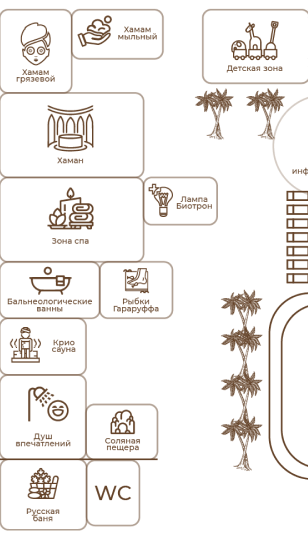
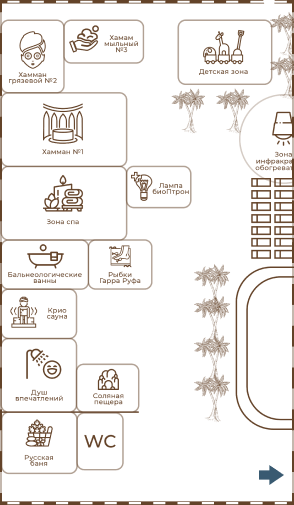
fix map and bugs

Changed region(s): [[0.0, 0.0, 1.0, 1.0]]

diff --git a/css/style.css b/css/style.css
@@ -186,7 +186,7 @@ svg rect {
   top: 0;
   left: 0;
   z-index: 0;
-  opacity: 0.6;
+  opacity: 0.2;
 }
 
 .main-content__lines-2 {
@@ -194,7 +194,7 @@ svg rect {
   top: 1200px;
   right: 0;
   z-index: 0;
-  opacity: 0.6;
+  opacity: 0.2;
 }
 
 .popup {
@@ -617,7 +617,7 @@ svg rect {
 }
 
 .popup-map__content {
-  max-height: calc(95% - 100px);
+  max-height: calc(95vh - 100px);
   width: auto;
   margin: 0 auto;
   -webkit-transform: translate(-15px, 0);
@@ -650,6 +650,7 @@ svg rect {
     width: 100px;
     height: 75px;
     z-index: 50;
+    background-color: rgba(0, 0, 0, 0.4);
   }
 }
 
@@ -657,6 +658,34 @@ svg rect {
   .popup-map__link-aqua {
     left: 35%;
   }
+}
+
+.popup-map__link-aqua--map-12 {
+  width: 50px;
+  height: 50px;
+  top: 90%;
+  left: 85%;
+}
+
+.popup-map__link-aqua--map-21 {
+  width: 50px;
+  height: 50px;
+  top: 90%;
+  left: 0;
+}
+
+.popup-map__link-aqua--map-23 {
+  width: 50px;
+  height: 50px;
+  top: 90%;
+  left: 85%;
+}
+
+.popup-map__link-aqua--map-32 {
+  width: 50px;
+  height: 50px;
+  top: 90%;
+  left: 0;
 }
 
 @media (max-width: 600px) {
@@ -854,6 +883,21 @@ svg rect {
   }
 }
 
+@media (max-width: 600px) {
+  .popup-map__link-aqua--red-zone-1 {
+    top: 20%;
+    left: 85%;
+    width: 50px;
+    height: 80px;
+  }
+}
+
+@media (max-width: 350px) {
+  .popup-map__link-aqua--red-zone-1 {
+    width: 40px;
+  }
+}
+
 .popup-aqua__wrapper {
   background: url("../images/system_img/services/bg.jpg") center/cover no-repeat;
   width: 85%;
@@ -1027,14 +1071,14 @@ svg rect {
   -webkit-box-align: center;
       -ms-flex-align: center;
           align-items: center;
-  padding: 0 50px;
+  padding: 0 25px;
   width: 100%;
   height: 100%;
 }
 
 @media (max-width: 1336px) {
   .header__wrapper {
-    padding: 0 25px;
+    padding: 0 10px;
   }
 }
 
@@ -1216,6 +1260,7 @@ svg rect {
   font-size: 19px;
   line-height: 23px;
   color: #000;
+  text-align: center;
 }
 
 @media (max-width: 1336px) {
@@ -2977,10 +3022,12 @@ svg rect {
   left: 20px;
 }
 
-.shares__slider .slick-arrow.slick-prev:hover {
-  -webkit-transform: translate(-5px, -5px) rotate(-360deg);
-      -ms-transform: translate(-5px, -5px) rotate(-360deg);
-          transform: translate(-5px, -5px) rotate(-360deg);
+@media (min-width: 768px) {
+  .shares__slider .slick-arrow.slick-prev:hover {
+    -webkit-transform: translate(-5px, -5px) rotate(-360deg);
+        -ms-transform: translate(-5px, -5px) rotate(-360deg);
+            transform: translate(-5px, -5px) rotate(-360deg);
+  }
 }
 
 .shares__slider .slick-arrow.slick-next {
@@ -2990,10 +3037,12 @@ svg rect {
   right: 20px;
 }
 
-.shares__slider .slick-arrow.slick-next:hover {
-  -webkit-transform: translate(5px, -5px) rotate(179deg);
-      -ms-transform: translate(5px, -5px) rotate(179deg);
-          transform: translate(5px, -5px) rotate(179deg);
+@media (min-width: 768px) {
+  .shares__slider .slick-arrow.slick-next:hover {
+    -webkit-transform: translate(5px, -5px) rotate(179deg);
+        -ms-transform: translate(5px, -5px) rotate(179deg);
+            transform: translate(5px, -5px) rotate(179deg);
+  }
 }
 
 .shares__img {

diff --git a/index.html b/index.html
@@ -905,6 +905,8 @@
 			</div>
 			<div class="popup-map__content popup__content">
 				<img src="images/system_img/scheme/01.png" alt="">
+				<a href="#map-popup-2" class="popup-map__link-aqua popup-map__link-aqua--map-12 popup-link"></a>
+
 				<a href="#russian-bath-popup"
 					class="popup-map__link-aqua popup-map__link-aqua--russian-bath popup-link"></a>
 				<a href="#salt-cave-popup" class="popup-map__link-aqua popup-map__link-aqua--salt-cave popup-link"></a>
@@ -919,6 +921,7 @@
 					class="popup-map__link-aqua popup-map__link-aqua--hamam-second popup-link"></a>
 				<a href="#hamam-third-popup" class="popup-map__link-aqua popup-map__link-aqua--hamam-third popup-link"></a>
 				<a href="#children-popup" class="popup-map__link-aqua popup-map__link-aqua--children popup-link"></a>
+				<a href="#red-zone-popup" class="popup-map__link-aqua popup-map__link-aqua--red-zone-1 popup-link"></a>
 			</div>
 		</div>
 	</div>
@@ -930,6 +933,10 @@
 			</div>
 			<div class="popup-map__content popup__content popup-map__content-2">
 				<img src="images/system_img/scheme/02.png" alt="">
+
+				<a href="#map-popup-1" class="popup-map__link-aqua popup-map__link-aqua--map-21 popup-link"></a>
+				<a href="#map-popup-3" class="popup-map__link-aqua popup-map__link-aqua--map-23 popup-link"></a>
+
 				<a href="#red-zone-popup" class="popup-map__link-aqua popup-map__link-aqua--red-zone popup-link"></a>
 			</div>
 		</div>
@@ -942,6 +949,8 @@
 			</div>
 			<div class="popup-map__content popup__content">
 				<img src="images/system_img/scheme/03.png" alt="">
+
+				<a href="#map-popup-2" class="popup-map__link-aqua popup-map__link-aqua--map-32 popup-link"></a>
 			</div>
 		</div>
 	</div>

diff --git a/#source/scss/style.scss b/#source/scss/style.scss
@@ -77,7 +77,7 @@ svg {
 		top: 0;
 		left: 0;
 		z-index: 0;
-		opacity: 0.6;
+		opacity: 0.2;
 	}
 
 	&__lines-2 {
@@ -85,7 +85,7 @@ svg {
 		top: 1200px;
 		right: 0;
 		z-index: 0;
-		opacity: 0.6;
+		opacity: 0.2;
 	}
 }
 
@@ -432,7 +432,7 @@ svg {
 	}
 
 	&__content {
-		max-height: calc(95% - 100px);
+		max-height: calc(95vh - 100px);
 		width: auto;
 		margin: 0 auto;
 		transform: translate(-15px, 0);
@@ -455,11 +455,39 @@ svg {
 			width: 100px;
 			height: 75px;
 			z-index: 50;
-			// background-color: rgba(0, 0, 0, 0.4);
+			background-color: rgba(0, 0, 0, 0.4);
 		}
 
 		@media (max-width: 420px) {
 			left: 35%;
+		}
+
+		&--map-12 {
+			width: 50px;
+			height: 50px;
+			top: 90%;
+			left: 85%;
+		}
+
+		&--map-21 {
+			width: 50px;
+			height: 50px;
+			top: 90%;
+			left: 0;
+		}
+
+		&--map-23 {
+			width: 50px;
+			height: 50px;
+			top: 90%;
+			left: 85%;
+		}
+
+		&--map-32 {
+			width: 50px;
+			height: 50px;
+			top: 90%;
+			left: 0;
 		}
 
 		&--russian-bath {
@@ -628,6 +656,19 @@ svg {
 
 			@media (max-width: 350px) {
 				width: 80px;
+			}
+		}
+
+		&--red-zone-1 {
+			@media (max-width: 600px) {
+				top: 20%;
+				left: 85%;
+				width: 50px;
+				height: 80px;
+			}
+
+			@media (max-width: 350px) {
+				width: 40px;
 			}
 		}
 	}

diff --git a/#source/scss/_shares.scss b/#source/scss/_shares.scss
@@ -64,17 +64,20 @@
 		.slick-arrow.slick-prev {
 			left: 20px;
 
-			&:hover {
-				transform: translate(-5px, -5px) rotate(-360deg);
+			@media (min-width: $xs) {
+				&:hover {
+					transform: translate(-5px, -5px) rotate(-360deg);
+				}
 			}
 		}
 		/* Стрелка вправо */
 		.slick-arrow.slick-next {
 			transform: rotate(180deg);
 			right: 20px;
-
-			&:hover {
-				transform: translate(5px, -5px) rotate(179deg);
+			@media (min-width: $xs) {
+				&:hover {
+					transform: translate(5px, -5px) rotate(179deg);
+				}
 			}
 		}
 	}

diff --git a/#source/scss/_header.scss b/#source/scss/_header.scss
@@ -10,12 +10,12 @@
 		display: flex;
 		justify-content: space-between;
 		align-items: center;
-		padding: 0 50px;
+		padding: 0 25px;
 		width: 100%;
 		height: 100%;
 
 		@media (max-width: $lg) {
-			padding: 0 25px;
+			padding: 0 10px;
 		}
 
 		@media (max-width: 400px) {
@@ -154,6 +154,7 @@
 		font-size: 19px;
 		line-height: 23px;
 		color: #000;
+		text-align: center;
 
 		@media (max-width: $lg) {
 			padding: 9px 5px 8px 20px;

diff --git a/tickets.html b/tickets.html
@@ -52,7 +52,7 @@
 								<p class="item-ticket__text">(Понедельник - пятница с 09:00 до 17:00)</p>
 							</div>
 							<div class="item-ticket__body">
-								<p class="item-ticket__price"><span>400</span> ₽</p>
+								<p class="item-ticket__price"><span>790</span> ₽</p>
 								<a href="tickets-info.html" class="item-ticket__btn btn">заказать</a>
 							</div>
 						</div>

diff --git a/js/script.js b/js/script.js
@@ -359,4 +359,8 @@ $(document).ready(function () {
 	$('.aqua__link-aqua--woman').click(function () {
 		aquaImg.attr('src', "images/system_img/aqua-zona/bg-woman.png")
 	});
+
+	if ($(window).width() <= 601) {
+		aquaImg.attr('src', "images/system_img/aqua-zona/bg.png")
+	} else { }
 });	
